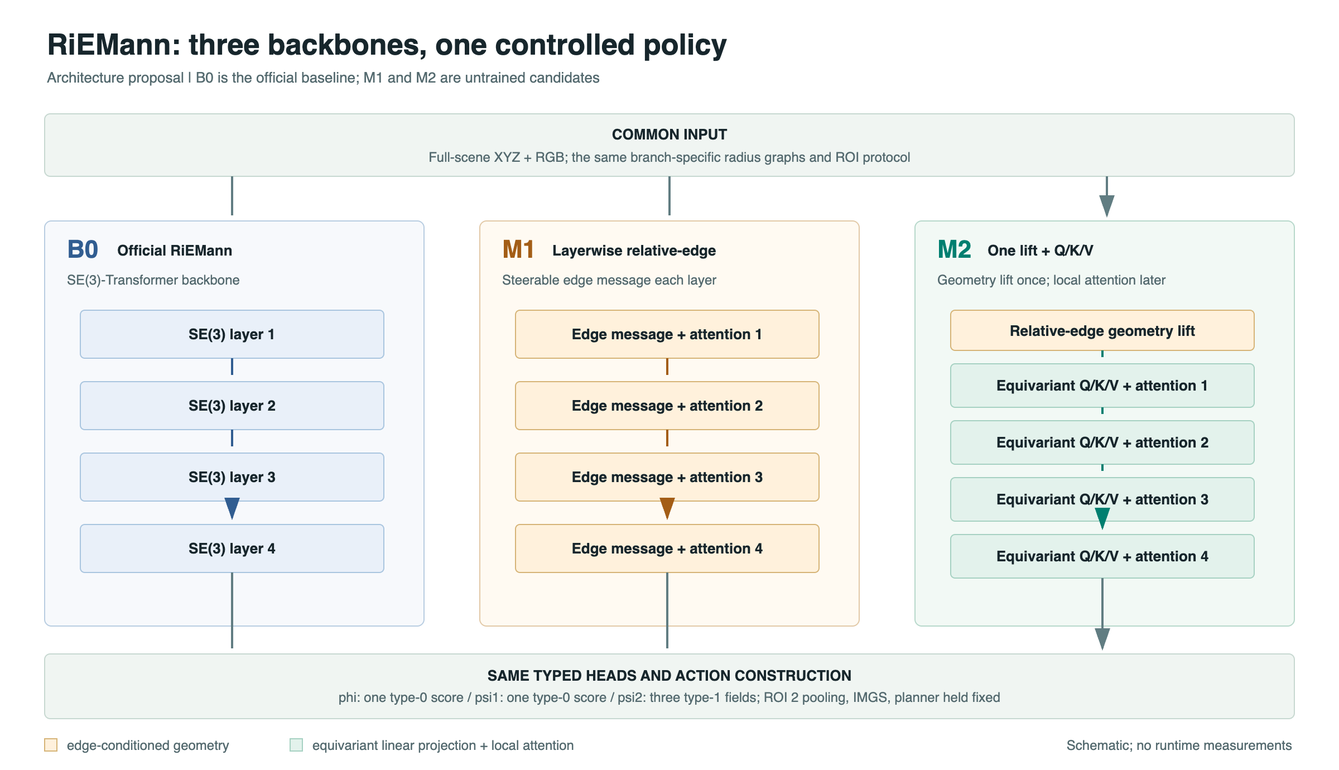
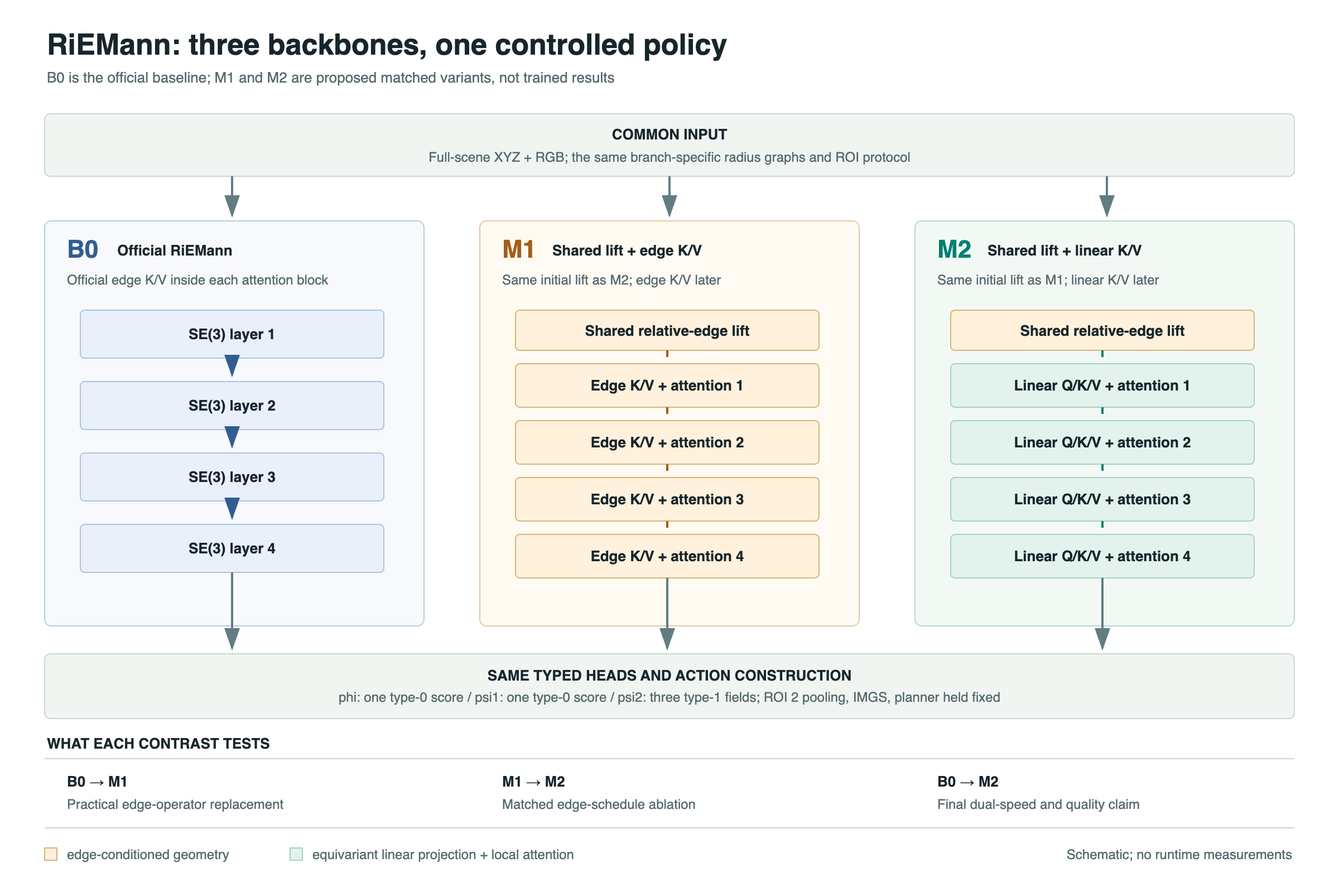
Clarify RiEMann M1 ablation and matched M2 comparison

diff --git a/experiments/riemann-backbone-comparison/index.html b/experiments/riemann-backbone-comparison/index.html
@@ -6,13 +6,13 @@
   <meta name="description" content="An interactive research report comparing the RiEMann baseline with two proposed equivariant backbones.">
   <title>RiEMann B0 / M1 / M2 | Independent Experiment</title>
   <link rel="icon" href="../../favicon.svg" type="image/svg+xml">
-  <link rel="stylesheet" href="styles.css?v=1">
+  <link rel="stylesheet" href="styles.css?v=2">
   <script>window.MathJax = {tex: {inlineMath: [['\\(', '\\)']]}, svg: {fontCache: 'local'}, startup: {typeset: false}};</script>
   <script src="../../papers/riemann/vendor/three.min.js" defer></script>
   <script src="../../shared/riemann-scene3d.js?v=experiment-20261009" defer></script>
   <script src="../../papers/riemann/vendor/mathjax-tex-svg.min.js" defer></script>
   <script src="results.js?v=1" defer></script>
-  <script src="app.js?v=1" defer></script>
+  <script src="app.js?v=2" defer></script>
 </head>
 <body>
   <header class="site-header">
@@ -20,6 +20,7 @@
       <a class="brand" href="../../">Paper Architecture Atlas</a>
       <nav aria-label="Page navigation">
         <a href="#comparison">Architecture</a>
+        <a href="#ablation">Ablation logic</a>
         <a href="#hypotheses">Hypotheses</a>
         <a href="#report">Report</a>
         <a href="../../papers/riemann/">RiEMann paper view</a>
@@ -32,7 +33,7 @@
       <div class="intro-inner">
         <div class="eyebrow">Independent research notebook / planned experiment</div>
         <h1 id="title">What changes when RiEMann's backbone changes?</h1>
-        <p class="lead">B0 keeps the official SE(3)-Transformer. M1 replaces all three networks with layerwise relative-edge equivariant attention. M2 performs one relative-edge geometry lift, then uses equivariant linear Q/K/V and local invariant attention. The policy around these backbones stays fixed.</p>
+        <p class="lead">B0 keeps the official SE(3)-Transformer. M1 and M2 are a proposed matched pair: both start with the same relative-edge geometry lift; M1 continues to form geometry-conditioned edge K/V in every attention layer, while M2 uses nodewise equivariant linear Q/K/V thereafter. The surrounding RiEMann policy stays fixed.</p>
         <div class="intro-meta"><span>Three backbones</span><span>One shared policy</span><span>Training + inference</span><span>No measured results yet</span></div>
       </div>
     </section>
@@ -75,25 +76,35 @@
       <div class="mode-row"><div class="mode-buttons" role="group" aria-label="Inspect inference or training flow"><button type="button" data-mode="inference" aria-pressed="true">Inference forward</button><button type="button" data-mode="training" aria-pressed="false">Training forward + backward</button></div><span id="flow-phase" aria-live="polite">Forward features to a typed head</span></div>
       <div class="model-grid" id="model-grid"></div>
       <div class="training-flow" id="training-flow" hidden><div><b>Same demonstration supervision</b><span>Target center and orientation axes supervise the same type-0 and type-1 heads.</span></div><div><b>Same losses, reverse gradient flow</b><span>Gradients update each candidate backbone; discrete ROI selection remains a control boundary, not a gradient path.</span></div></div>
-      <p class="diagram-note">Architecture diagrams are schematic. RiEMann Appendix Table 3 reports four layers per network; M1 and M2 are proposed designs, not implementations or measured runs. A highlighted edge operation does not represent a calibrated amount of runtime.</p>
+      <p class="diagram-note">Architecture diagrams are schematic. RiEMann Appendix Table 3 reports four attention layers per network. M1 and M2 share a proposed initial lift plus four matched attention layers; neither RiEMann adapter has been implemented or measured. The current e2tsp-escnn ConvE3 projection is nodewise on centered coordinates, not this proposed relative-edge lift. A highlighted operation is not a calibrated amount of runtime.</p>
       <div class="static-link"><a href="architecture.svg">Open the static SVG comparison</a><a href="architecture.png">Download PNG</a></div>
     </section>
 
+    <section class="ablation-band" id="ablation" aria-labelledby="ablation-title"><div class="content">
+      <div class="section-heading"><div><div class="eyebrow">03 / Experimental purpose</div><h2 id="ablation-title">Which comparison answers which question?</h2></div><p>M1 is a mechanism-control candidate, not the claimed faster final architecture. These contrasts have different levels of causal precision.</p></div>
+      <div class="ablation-head" aria-hidden="true"><span>Contrast</span><span>Question and evidence</span><span>Interpretation boundary</span></div>
+      <div class="ablation-row"><strong>B0 &rarr; M1</strong><p>Can our edge-conditioned operator family replace RiEMann's per-layer SE(3) K/V path while retaining equivariance, pose quality, and task success? Measure its runtime too, without predicting a speed ordering.</p><p>An end-to-end backbone replacement, not an operator-only causal test: the new initial lift and other implementation details may differ from B0.</p></div>
+      <div class="ablation-row primary-contrast"><strong>M1 &rarr; M2</strong><p>After the <em>same</em> initial lift, are geometry-conditioned edge K/V needed again at every layer? Compare step time, inference latency, equivariance, and quality at matched convergence.</p><p>Attribute a difference to the edge-conditioning schedule only if the lift, fibers, graph, depth, attention score, heads, normalization, training, and implementation budget are matched.</p></div>
+      <div class="ablation-row"><strong>B0 &rarr; M2</strong><p>Does the final candidate improve both training-to-quality and complete-policy inference latency against a rerun of the official baseline without unacceptable quality loss?</p><p>This establishes the practical outcome, not which architectural change caused it. Use M1 to interpret the mechanism.</p></div>
+      <p class="ablation-footnote"><strong>Shared M1/M2 test design:</strong> one identical relative-edge lift and typed starting fiber; the same four attention-layer interfaces and all policy components. The planned switch is per-layer edge-conditioned K/V in M1 versus nodewise equivariant linear K/V in M2. Q stays nodewise in both. If this matching cannot be implemented, report M1/M2 as a multi-factor comparison rather than a clean ablation.</p>
+    </div></section>
+
     <section class="hypotheses-band" id="hypotheses" aria-labelledby="hypotheses-title"><div class="content">
-      <div class="section-heading"><div><div class="eyebrow">03 / Mechanism to test</div><h2 id="hypotheses-title">A speed hypothesis, not a speed result</h2></div><p>M2 removes repeated relative-edge steerable lifts from the later layers. That may reduce geometry-dependent work, but kernels, attention, graph construction, memory traffic, and optimization can dominate wall time.</p></div>
+      <div class="section-heading"><div><div class="eyebrow">04 / Mechanism to test</div><h2 id="hypotheses-title">A speed hypothesis, not a speed result</h2></div><p>M2 removes repeated relative-edge steerable K/V computation from the later layers. That may reduce geometry-dependent work, but kernels, attention, graph construction, memory traffic, and optimization can dominate wall time.</p></div>
       <div class="work-pattern" aria-label="Schematic placement of edge-conditioned operations">
         <div class="work-row"><b>B0</b><div class="work-slots"><span class="edge-slot">SE(3) layer</span><span class="edge-slot">SE(3) layer</span><span class="edge-slot">SE(3) layer</span><span class="edge-slot">SE(3) layer</span></div><small>Official four-layer reference</small></div>
-        <div class="work-row"><b>M1</b><div class="work-slots"><span class="edge-slot">Edge message</span><span class="edge-slot">Edge message</span><span class="edge-slot">Edge message</span><span class="edge-slot">Edge message</span></div><small>Proposed edge work every layer</small></div>
-        <div class="work-row"><b>M2</b><div class="work-slots"><span class="edge-slot">Edge lift</span><span class="linear-slot">Q/K/V</span><span class="linear-slot">Q/K/V</span><span class="linear-slot">Q/K/V</span><span class="linear-slot">Q/K/V</span></div><small>Proposed one-time lift, then local attention</small></div>
+        <div class="work-row"><b>M1</b><div class="work-slots"><span class="edge-slot">Shared lift</span><span class="edge-slot">Edge K/V</span><span class="edge-slot">Edge K/V</span><span class="edge-slot">Edge K/V</span><span class="edge-slot">Edge K/V</span></div><small>Same lift; edge K/V every layer</small></div>
+        <div class="work-row"><b>M2</b><div class="work-slots"><span class="edge-slot">Shared lift</span><span class="linear-slot">Linear K/V</span><span class="linear-slot">Linear K/V</span><span class="linear-slot">Linear K/V</span><span class="linear-slot">Linear K/V</span></div><small>Same lift; nodewise K/V thereafter</small></div>
       </div>
       <div class="hypothesis-grid"><div><span class="hypothesis-label">Expected from design</span><h3>Less repeated edge-kernel work in M2</h3><p>M2 should need fewer steerable edge-kernel applications than M1 at the same graph and depth. This is a computational mechanism, not a guaranteed end-to-end speedup.</p></div><div><span class="hypothesis-label">Must be measured</span><h3>Both faster training and inference</h3><p>Compare training step time, time to matched validation quality, and model-only plus full-policy latency on the same GPU. M1 versus B0 has no assumed ordering.</p></div><div><span class="hypothesis-label">Must not be lost</span><h3>Equivariance and task quality</h3><p>Check type-0/type-1 residuals, pose error, and paired closed-loop success. A faster but less effective policy does not validate the original objective.</p></div></div>
     </div></section>
 
     <article class="report content" id="report" aria-labelledby="report-title">
-      <div class="section-heading"><div><div class="eyebrow">04 / Personal experiment report</div><h2 id="report-title">RiEMann B0 / M1 / M2 study</h2></div><span class="status" id="report-status">Planned / no measurements</span></div>
+      <div class="section-heading"><div><div class="eyebrow">05 / Personal experiment report</div><h2 id="report-title">RiEMann B0 / M1 / M2 study</h2></div><span class="status" id="report-status">Planned / no measurements</span></div>
       <div class="report-lead"><p><strong>Research question.</strong> Can our SO(3)-equivariant backbone make the RiEMann manipulation policy faster in both training and inference, without materially reducing pose accuracy or task success?</p><p><strong>Identification strategy.</strong> Reproduce B0, then replace only the three network backbones. All three candidates use the same full-scene XYZ/RGB input, radius graphs, ROI protocol, typed heads, pose construction, losses, data split, and execution stack.</p></div>
       <div class="report-sections">
-        <section><h3>Models and provenance</h3><p><b>B0</b> is the official RiEMann SE(3)-Transformer policy. <b>M1</b> is a proposed layerwise relative-edge equivariant Transformer using our SO(3) representation machinery. <b>M2</b> is a proposed one-time relative-edge lift followed by nodewise equivariant Q/K/V and local invariant attention. Our existing <code>ConvE3</code> is nodewise in its current call pattern; M1 requires a genuine edge-message adapter. Neither M1 nor M2 is presented here as already trained.</p></section>
+        <section><h3>Models and provenance</h3><p><b>B0</b> is the official RiEMann SE(3)-Transformer policy. <b>M1</b> and <b>M2</b> are proposed matched adapters sharing an initial relative-edge lift. M1 retains a steerable edge-conditioned K/V message in every attention layer; M2 uses nodewise equivariant linear Q/K/V after the lift. Our existing <code>ConvE3</code> call pattern is nodewise on centered coordinates, so neither the proposed relative-edge lift nor M1's edge-message adapter is an existing module. Neither candidate has been trained here.</p></section>
+        <section><h3>Purpose of M1</h3><p>M1 checks whether our per-layer edge-conditioned replacement can preserve the baseline's equivariance and task quality. More importantly, paired with M2 it tests whether repeated directional edge conditioning earns its extra cost after both start from the same typed features. B0 versus M1 is a practical architecture comparison; M1 versus M2 is a schedule ablation only after their shared components are matched and verified.</p></section>
         <section><h3>Frozen comparison protocol</h3><p>Audit repository commits, data hashes, GPU/software versions, and the paper-versus-code training mismatch before choosing a single executable configuration. Start with official Mug data and a trajectory-level split; then run paired SAPIEN scenes when simulation assets and success rules are available. Use at least three training seeds. Compare 2,500-point public-code preprocessing and a separate, uniformly processed 8,192-point extension. Do not compare a new measurement directly with the paper's A40 timing.</p></section>
         <section><h3>Measurement contract</h3><p>Report forward, backward, optimizer-step, samples/s, peak memory, and wall time to a preregistered validation threshold. At batch 1, report warm-up-and-synchronized p50/p95 times for &phi;, graph/ROI, &psi;<sub>1</sub>, &psi;<sub>2</sub>, pose construction, model-only, and the complete policy. Report translation and rotation errors plus paired T/NI/NP/DO/ALL simulation success with confidence intervals and failure categories.</p></section>
         <section><h3>Decision rule</h3><p>The dual-speed claim requires faster training to matched quality <em>and</em> lower complete-policy inference latency on the same hardware, while pose quality and task success meet thresholds fixed before final testing. A reduction in theoretical edge operations alone is not sufficient. If one metric fails, report the partial outcome rather than averaging it away.</p></section>

diff --git a/experiments/riemann-backbone-comparison/app.js b/experiments/riemann-backbone-comparison/app.js
@@ -8,9 +8,9 @@
     { id: "pose", title: "Pose construction and execution", scene: "The pooled vectors are normalized and orthogonalized by IMGS. Translation and rotation form the same 6-DoF target for the same motion-planning and execution stack.", output: "Pose (t, R), then robot command", boundary: "Fixed: IMGS, target-frame convention, planner, and success criterion.", math: String.raw`\begin{aligned}\tilde V&=\operatorname{colnorm}(\bar V)\\\hat R&=\operatorname{IMGS}(\tilde V),\quad\hat T=(\hat{\mathbf t},\hat R)\end{aligned}` }
   ];
   const models = [
-    { id: "B0", kind: "Official baseline", title: "RiEMann SE(3)-Transformer", subtitle: "The original four-layer equivariant network in each of phi, psi1, and psi2.", ops: ["SE(3) attention", "SE(3) attention", "SE(3) attention", "SE(3) attention"], types: ["edge", "edge", "edge", "edge"], equation: String.raw`h^{(\ell+1)}=\mathrm{SE3T}_{\ell}(h^{(\ell)},P)`, caution: "Reference implementation. Rerun on the same hardware; paper FPS is not the comparison value." },
-    { id: "M1", kind: "Proposed replacement", title: "Layerwise relative-edge", subtitle: "A genuine edge-conditioned steerable message and invariant attention score at every layer.", ops: ["Edge message + attention", "Edge message + attention", "Edge message + attention", "Edge message + attention"], types: ["edge", "edge", "edge", "edge"], equation: String.raw`m_{ij}^{(\ell)}=K_{\ell}(\mathbf r_{ij})h_j^{(\ell)}`, caution: "Uses our SO(3) representation tools but needs a new edge-message adapter; speed versus B0 is unknown." },
-    { id: "M2", kind: "Proposed speed candidate", title: "One geometry lift + Q/K/V", subtitle: "One relative-edge steerable lift, then equivariant linear projections and local attention.", ops: ["Relative-edge lift", "Equivariant Q/K/V + attention", "Equivariant Q/K/V + attention", "Equivariant Q/K/V + attention", "Equivariant Q/K/V + attention"], types: ["edge", "linear", "linear", "linear", "linear"], equation: String.raw`\begin{aligned}h^{(0)}&=\mathrm{Lift}_{\mathrm{edge}}(P)\\Q,K,V&=\mathrm{Linear}_{\mathrm{eq}}(h)\end{aligned}`, caution: "Fewer repeated edge lifts is a hypothesis about computation, not proof of lower wall time or equal quality." }
+    { id: "B0", kind: "Official baseline", title: "RiEMann SE(3)-Transformer", subtitle: "Four attention layers with edge-conditioned K/V in each of phi, psi1, and psi2.", ops: ["Edge K/V + attention", "Edge K/V + attention", "Edge K/V + attention", "Edge K/V + attention"], types: ["edge", "edge", "edge", "edge"], labels: ["L1", "L2", "L3", "L4"], equation: String.raw`(k_{ij},v_{ij})=\mathrm{ConvSE3}_{\ell}(\mathbf r_{ij},h_j)`, caution: "Official per-layer edge K/V path. Rerun on the same hardware; paper FPS is not the comparison value." },
+    { id: "M1", kind: "Proposed ablation", title: "Shared lift + edge K/V", subtitle: "The same initial lift as M2, then new steerable edge-conditioned K/V in all four attention layers.", ops: ["Shared relative-edge lift", "Edge K/V + attention", "Edge K/V + attention", "Edge K/V + attention", "Edge K/V + attention"], types: ["edge", "edge", "edge", "edge", "edge"], labels: ["LIFT", "L1", "L2", "L3", "L4"], equation: String.raw`(k_{ij},v_{ij})=K_{\ell}(\mathbf r_{ij})h_j^{(\ell)}`, caution: "Mechanism control for M2. The relative-edge lift and per-layer edge-message adapter must both be implemented; no speed ordering against B0 is assumed." },
+    { id: "M2", kind: "Proposed speed candidate", title: "Shared lift + linear K/V", subtitle: "The identical initial lift, then nodewise equivariant linear Q/K/V and invariant local attention.", ops: ["Shared relative-edge lift", "Linear Q/K/V + attention", "Linear Q/K/V + attention", "Linear Q/K/V + attention", "Linear Q/K/V + attention"], types: ["edge", "linear", "linear", "linear", "linear"], labels: ["LIFT", "L1", "L2", "L3", "L4"], equation: String.raw`\begin{aligned}h^{(0)}&=\mathrm{Lift}_{\mathrm{edge}}(P)\\Q,K,V&=\mathrm{Linear}_{\mathrm{eq}}(h)\end{aligned}`, caution: "Tests whether repeated directional edge K/V are necessary after the shared lift; reduced work does not guarantee speed or quality." }
   ];
   const scene = document.getElementById("scene");
   const stageButtons = [...document.querySelectorAll("[data-stage]")];
@@ -51,7 +51,7 @@
       <div class="model-head"><span class="model-code">${model.id}</span><span class="model-kind">${model.kind}</span></div>
       <h3>${model.title}</h3><p class="model-sub">${model.subtitle}</p>
       <div class="model-input">Same input: <span class="branch-input">full scene</span></div>
-      <div class="operator-stack"><span class="signal" aria-hidden="true"></span>${model.ops.map((op, i) => `<div class="operator ${model.types[i]}">${graph(model.types[i])}<span>${op}</span><span class="layer-number">${model.id === "M2" && i === 0 ? "LIFT" : `L${model.id === "M2" ? i : i + 1}`}</span></div>`).join("")}</div>
+      <div class="operator-stack"><span class="signal" aria-hidden="true"></span>${model.ops.map((op, i) => `<div class="operator ${model.types[i]}">${graph(model.types[i])}<span>${op}</span><span class="layer-number">${model.labels[i]}</span></div>`).join("")}</div>
       <div class="model-output">Same output: <span class="branch-output">type-0 saliency</span></div>
       <p class="model-equation">\\(${model.equation}\\)</p><p class="model-caution">${model.caution}</p>
     </article>`).join("");

diff --git a/experiments/riemann-backbone-comparison/styles.css b/experiments/riemann-backbone-comparison/styles.css
@@ -121,6 +121,16 @@ nav a:hover{color:var(--teal)}
 .training-flow span{font-size:11px;color:var(--muted)}
 .diagram-note{font-size:11px;color:var(--muted);margin:13px 0 0}
 .static-link{display:flex;gap:18px;margin-top:7px;font-size:11px}
+.ablation-band{border-top:1px solid var(--line);background:#f0f5f2}
+.ablation-band .content{padding:36px 24px 40px}
+.ablation-head,.ablation-row{display:grid;grid-template-columns:125px minmax(0,1.1fr) minmax(0,1fr);gap:22px;align-items:start}
+.ablation-head{padding:0 12px 7px;color:var(--muted);font-size:10px;font-weight:800;text-transform:uppercase}
+.ablation-row{padding:15px 12px;border-top:1px solid var(--line)}
+.ablation-row strong{color:var(--blue);font-size:14px;white-space:nowrap}
+.ablation-row.primary-contrast strong{color:var(--teal)}
+.ablation-row p{margin:0;color:#40585c;font-size:12px;line-height:1.6}
+.ablation-footnote{border-top:1px solid var(--line);padding:14px 12px 0;margin:0;color:var(--muted);font-size:11px;line-height:1.65}
+.ablation-footnote strong{color:var(--ink)}
 .hypotheses-band{background:#fff;border-top:1px solid var(--line);border-bottom:1px solid var(--line)}
 .hypotheses-band .content{padding:36px 24px 42px}
 .work-pattern{border-top:1px solid var(--line);border-bottom:1px solid var(--line);padding:11px 0;margin:21px 0 25px}
@@ -129,7 +139,7 @@ nav a:hover{color:var(--teal)}
 .work-row b{font-size:13px}
 .work-row small{font-size:11px;color:var(--muted)}
 .work-slots{display:flex;gap:5px}
-.work-slots span{min-width:0;flex:1;text-align:center;padding:8px 3px;border-radius:3px;font-size:10px;font-weight:700;white-space:nowrap}
+.work-slots span{min-width:0;min-height:36px;flex:1;display:grid;place-items:center;text-align:center;padding:6px 3px;border-radius:3px;font-size:10px;font-weight:700;line-height:1.2}
 .edge-slot{background:var(--amber-soft);color:#804b12}
 .linear-slot{background:var(--teal-soft);color:#006e60}
 .hypothesis-grid{display:grid;grid-template-columns:repeat(3,minmax(0,1fr));gap:26px}
@@ -163,6 +173,6 @@ code{font:12px ui-monospace,SFMono-Regular,Consolas,monospace;background:#eaf0ec
 footer{background:#fff;border-top:1px solid var(--line)}
 .footer-inner{padding:17px 24px;display:flex;justify-content:space-between;gap:15px;font-size:11px;color:var(--muted)}
 @media(max-width:980px){.pipeline{overflow-x:auto;padding-bottom:5px}.pipe-segment{flex:0 0 132px}.model-grid{gap:9px}.model-card{padding:13px}.work-row{grid-template-columns:38px minmax(0,1fr)}.work-row small{grid-column:2;margin-top:-7px;margin-bottom:5px}}
-@media(max-width:760px){.header-inner{padding:12px 15px;align-items:start;flex-direction:column;gap:8px}nav{gap:14px}.intro-inner{padding:25px 15px}.intro h1{font-size:28px}.comparison,.hypotheses-band .content,.report{padding:28px 15px}.section-heading{display:block}.section-heading p{max-width:none;margin-top:10px}.scene-grid{grid-template-columns:1fr}#scene{aspect-ratio:500/250}.stage-detail{min-height:195px}.robot-heading{display:block}.task-buttons{margin-top:12px}#robot-scene{height:300px}.model-grid{grid-template-columns:1fr}.model-sub,.model-caution,.model-equation{min-height:0}.hypothesis-grid,.training-flow{grid-template-columns:1fr;gap:15px}.report-lead,.report-sections{grid-template-columns:1fr;gap:4px}.report-footer{display:block}.footer-inner{display:block;padding:15px}.footer-inner a{display:block;margin-top:6px}}
+@media(max-width:760px){.header-inner{padding:12px 15px;align-items:start;flex-direction:column;gap:8px}nav{gap:14px}.intro-inner{padding:25px 15px}.intro h1{font-size:28px}.comparison,.ablation-band .content,.hypotheses-band .content,.report{padding:28px 15px}.section-heading{display:block}.section-heading p{max-width:none;margin-top:10px}.scene-grid{grid-template-columns:1fr}#scene{aspect-ratio:500/250}.stage-detail{min-height:195px}.robot-heading{display:block}.task-buttons{margin-top:12px}#robot-scene{height:300px}.model-grid{grid-template-columns:1fr}.model-sub,.model-caution,.model-equation{min-height:0}.ablation-head{display:none}.ablation-row{grid-template-columns:1fr;gap:6px;padding:15px 0}.ablation-row p+p{color:var(--muted)}.ablation-footnote{padding-left:0;padding-right:0}.hypothesis-grid,.training-flow{grid-template-columns:1fr;gap:15px}.report-lead,.report-sections{grid-template-columns:1fr;gap:4px}.report-footer{display:block}.footer-inner{display:block;padding:15px}.footer-inner a{display:block;margin-top:6px}}
 @media(max-width:440px){.intro h1{font-size:25px}.stage-buttons{width:100%}.stage-buttons button{flex:1;min-width:42px;padding:0 5px}.playback{width:100%;flex-wrap:wrap}.playback input[type=range]{flex:1;min-width:70px}.scene-top,.scene-bottom{padding:8px 10px}.results-head{display:block}.pending-mark{display:inline-block;margin-top:10px}.work-slots span{font-size:9px;padding:8px 1px}}
 @media(prefers-reduced-motion:reduce){html{scroll-behavior:auto}.operator,.pipe-segment{transition:none}}

diff --git a/index.html b/index.html
@@ -47,11 +47,11 @@
       <div class="experiments-inner">
         <div class="section-head"><div><div class="eyebrow">Research notebook</div><h2 id="experiments-title">Independent experiments</h2></div></div>
         <article class="experiment-entry">
-          <a class="experiment-image" href="experiments/riemann-backbone-comparison/" aria-label="Open the RiEMann B0 M1 M2 experiment report"><img src="assets/riemann-backbone-comparison.png?v=1" alt="Three parallel point-cloud processing architectures" loading="lazy"></a>
+          <a class="experiment-image" href="experiments/riemann-backbone-comparison/" aria-label="Open the RiEMann B0 M1 M2 experiment report"><img src="assets/riemann-backbone-comparison.png?v=2" alt="Three parallel point-cloud processing architectures" loading="lazy"></a>
           <div class="experiment-body">
             <div class="paper-meta">Planned study · Robot manipulation · Equivariance</div>
             <h3><a href="experiments/riemann-backbone-comparison/">RiEMann backbone comparison: B0 / M1 / M2</a></h3>
-            <p>Our controlled experiment keeps the RiEMann policy fixed while changing its three equivariant backbones. An animated comparison shows what each model computes, why M2 might be faster, and how training speed, inference latency, pose quality, and closed-loop success will be tested.</p>
+            <p>Our planned comparison keeps the RiEMann policy fixed while replacing its three equivariant backbones. M1 is a matched mechanism control for M2: together they test whether repeated edge-conditioned K/V earns its cost after a shared geometry lift. Training speed, inference latency, pose quality, and closed-loop success remain unmeasured.</p>
             <a class="primary-link" href="experiments/riemann-backbone-comparison/">Explore experiment report →</a>
           </div>
         </article>

diff --git a/experiments/riemann-backbone-comparison/REPORT.md b/experiments/riemann-backbone-comparison/REPORT.md
@@ -11,14 +11,26 @@ The official RiEMann policy supplies the full-scene XYZ/RGB input, a saliency ne
 | Candidate | Backbone in each of `phi`, `psi1`, `psi2` | Intended comparison |
 |---|---|---|
 | B0 | Official four-layer RiEMann SE(3)-Transformer | Re-measured baseline on the same hardware |
-| M1 | Proposed layerwise relative-edge steerable message plus invariant attention | Direct replacement, typed output and quality check |
-| M2 | Proposed one-time relative-edge lift, then equivariant linear Q/K/V and local invariant attention | Test reduced repeated edge-kernel work |
+| M1 | Proposed relative-edge lift shared with M2, then steerable edge-conditioned K/V in all four attention layers | Mechanism-control candidate; test the quality and cost of repeated directional edge conditioning |
+| M2 | The same proposed relative-edge lift, then nodewise equivariant linear Q/K/V and local invariant attention in all four layers | Final speed candidate; test whether one initial geometric lift is sufficient |
 
-The three external contracts are held fixed: `phi` emits one type-0 score per scene point, `psi1` emits one type-0 score per ROI 1 point, and `psi2` emits three type-1 vectors per ROI 1 point. All candidates use the same point order, ROI definitions, output basis conversion, losses, and pose construction. M1 needs a genuine edge-message implementation; the current `e2tsp-escnn` `ConvE3` usage is nodewise coordinate-conditioned projection. M2's nodewise equivariant Q/K/V path exists as a reusable component, but its RiEMann adapter and trained performance remain unverified.
+The three external contracts are held fixed: `phi` emits one type-0 score per scene point, `psi1` emits one type-0 score per ROI 1 point, and `psi2` emits three type-1 vectors per ROI 1 point. All candidates use the same point order, ROI definitions, output basis conversion, losses, and pose construction. RiEMann's official attention block uses `ConvSE3(pool=False)` to make edge-indexed K/V, nodewise `LinearSE3` for Q, invariant attention weights, and weighted aggregation; a final `ConvSE3` also appears after its attention stack. Calling this "type transformation in attention" refers to the geometric K/V construction inside the block, not Softmax itself. The official implementation can precompute and reuse geometric bases; repeated edge-conditioned feature kernels, rather than repeated basis generation, are the computational distinction.
+
+## Experimental and ablation purpose
+
+| Contrast | Question | What it can establish |
+|---|---|---|
+| B0 vs M1 | Can our edge-conditioned operator family function as a RiEMann backbone replacement while retaining equivariance, pose quality, and success? How does it run on the same hardware? | A practical comparison of complete backbone packages. It is **not** an operator-only causal estimate because M1's proposed entry lift and other implementation choices differ from B0. No speed ordering is assumed. |
+| M1 vs M2 | After an identical initial relative-edge lift, is per-layer directional edge-conditioned K/V worth its time and memory cost? | A schedule ablation **only if** the shared lift, typed fiber, graph, four-layer depth, nodewise Q, attention score and normalization, heads, training budget, and implementation effort are matched. Otherwise call it a multi-factor comparison. |
+| B0 vs M2 | Does the final design accelerate training to matched quality and lower complete-policy inference latency without unacceptable geometric or task-performance loss? | The practical primary outcome. M1 helps interpret its mechanism but cannot by itself prove which change explains the full B0-to-M2 difference. |
+
+M1 is not the proposed final architecture and is not predicted to be faster than B0. The strongest M1/M2 test uses the **same newly implemented edge lift** in both candidates. In M1, each subsequent attention layer adds an edge-conditioned steerable K/V message; in M2, K/V are nodewise equivariant linear projections, gathered onto edges for attention. Q remains nodewise in both. Their attention weighting and typed-value aggregation should otherwise use the same implementation. This isolates the presence of a new directional edge-conditioned K/V map at each later layer, not every possible difference between the deployed B0 and M2 systems.
+
+The present `e2tsp-escnn` `InitialEmbedding` centers coordinates and applies `ConvE3` **per node**. Its graph distances do not make that projection a relative-edge lift. Its default attention uses fused nodewise equivariant linear Q/K/V; `--convkv` instead applies coordinate-conditioned K/V per node, not per edge. Therefore the shared relative-edge lift and M1 edge-message adapter are both **new RiEMann integration work**, not existing modules ready to benchmark. The reusable nodewise Q/K/V path exists, but the M2 RiEMann adapter and trained performance remain unverified.
 
 ## Hypotheses
 
-1. M2 performs fewer repeated steerable edge-kernel applications than M1 at the same depth and graph. This is a statement about the proposed computation schedule, not a measured time ratio.
+1. M2 performs fewer repeated steerable edge-kernel applications than M1 at the same depth and graph, after their common initial lift. This is a statement about the proposed computation schedule, not a measured time ratio.
 2. M2 may have faster training steps and policy inference than B0 and M1, but graph construction, attention, memory traffic, optimizer behavior, and ROI overhead may erase that advantage. M1 versus B0 has no assumed runtime ordering.
 3. A useful speedup must retain numerical equivariance and acceptable pose and task quality. Faster steps alone do not establish faster training if the model needs more steps to converge.
 
@@ -28,6 +40,7 @@ The three external contracts are held fixed: `phi` emits one type-0 score per sc
 - Reproduce B0 forward/backward, checkpoint reload, and output shapes before replacement.
 - Resolve the paper-versus-public-code configuration mismatch, then freeze one executable primary protocol. The paper reports A40, batch 4, 200 epochs, and learning rate `1e-4` in Appendix A.4; public Mug scripts use a different batch, schedule, and table downsampling. Do not silently combine settings.
 - Establish a trajectory-level data split, at least three training seeds, fixed point/edge counts, matched RGB and geometric preprocessing, common radius graphs, and the same empty-ROI fallback.
+- Before naming M1 vs M2 a schedule ablation, test equality of their initial lifted tensors at identical weights and input, then audit typed widths, Q path, score/Softmax, normalization, output heads, and non-geometric operations. Record deviations explicitly.
 
 ## Execution order
 
@@ -50,6 +63,6 @@ No results are available yet. The website's results table is populated from [`re
 ## Sources and interpretation
 
 - [RiEMann paper](https://arxiv.org/abs/2403.19460), especially Figure 3, Section 4.2, Appendix A.1, A.2, and A.4.
-- [Official RiEMann implementation](https://github.com/HeegerGao/RiEMann) for the executable baseline. Its server-side revision must be recorded before running.
+- [Official RiEMann attention block](https://github.com/HeegerGao/RiEMann/blob/main/networks/se3_transformer/model/layers/attention.py), [edge convolution](https://github.com/HeegerGao/RiEMann/blob/main/networks/se3_transformer/model/layers/convolution.py), and [backbone](https://github.com/HeegerGao/RiEMann/blob/main/networks/se3_backbone.py) for the executable baseline. Its server-side revision must be recorded before running.
 - Our SO(3) package's `PLAN_SE3.md` and `equivariant/` architecture for the proposed components; code provenance must be recorded on the server.
 - The diagrams and point cloud on this page are original teaching reconstructions. They are not trained activations, performance measurements, paper figures, or real simulator frames.

diff --git a/README.md b/README.md
@@ -14,7 +14,7 @@ Each visualization cites its primary paper. Procedural geometry, feature values,
 
 ## Independent experiments
 
-- [RiEMann backbone comparison](experiments/riemann-backbone-comparison/): an animated, English-language research report for the planned B0/M1/M2 controlled study. It is separate from the published-paper library. Expected speedups are hypotheses, not measured results.
+- [RiEMann backbone comparison](experiments/riemann-backbone-comparison/): an animated, English-language research report for the planned B0/M1/M2 study. M1 is a proposed mechanism control sharing M2's initial lift; their matched contrast tests the value and cost of per-layer edge-conditioned K/V. It is separate from the published-paper library. Expected speedups are hypotheses, not measured results.
 
 The RiEMann paper explainer and backbone experiment use one shared procedural 3D scene implementation at `shared/riemann-scene3d.js`; the table and robot are not redrawn for the experiment. The scene still uses the RiEMann page's bundled Three.js r128 (MIT).
 
